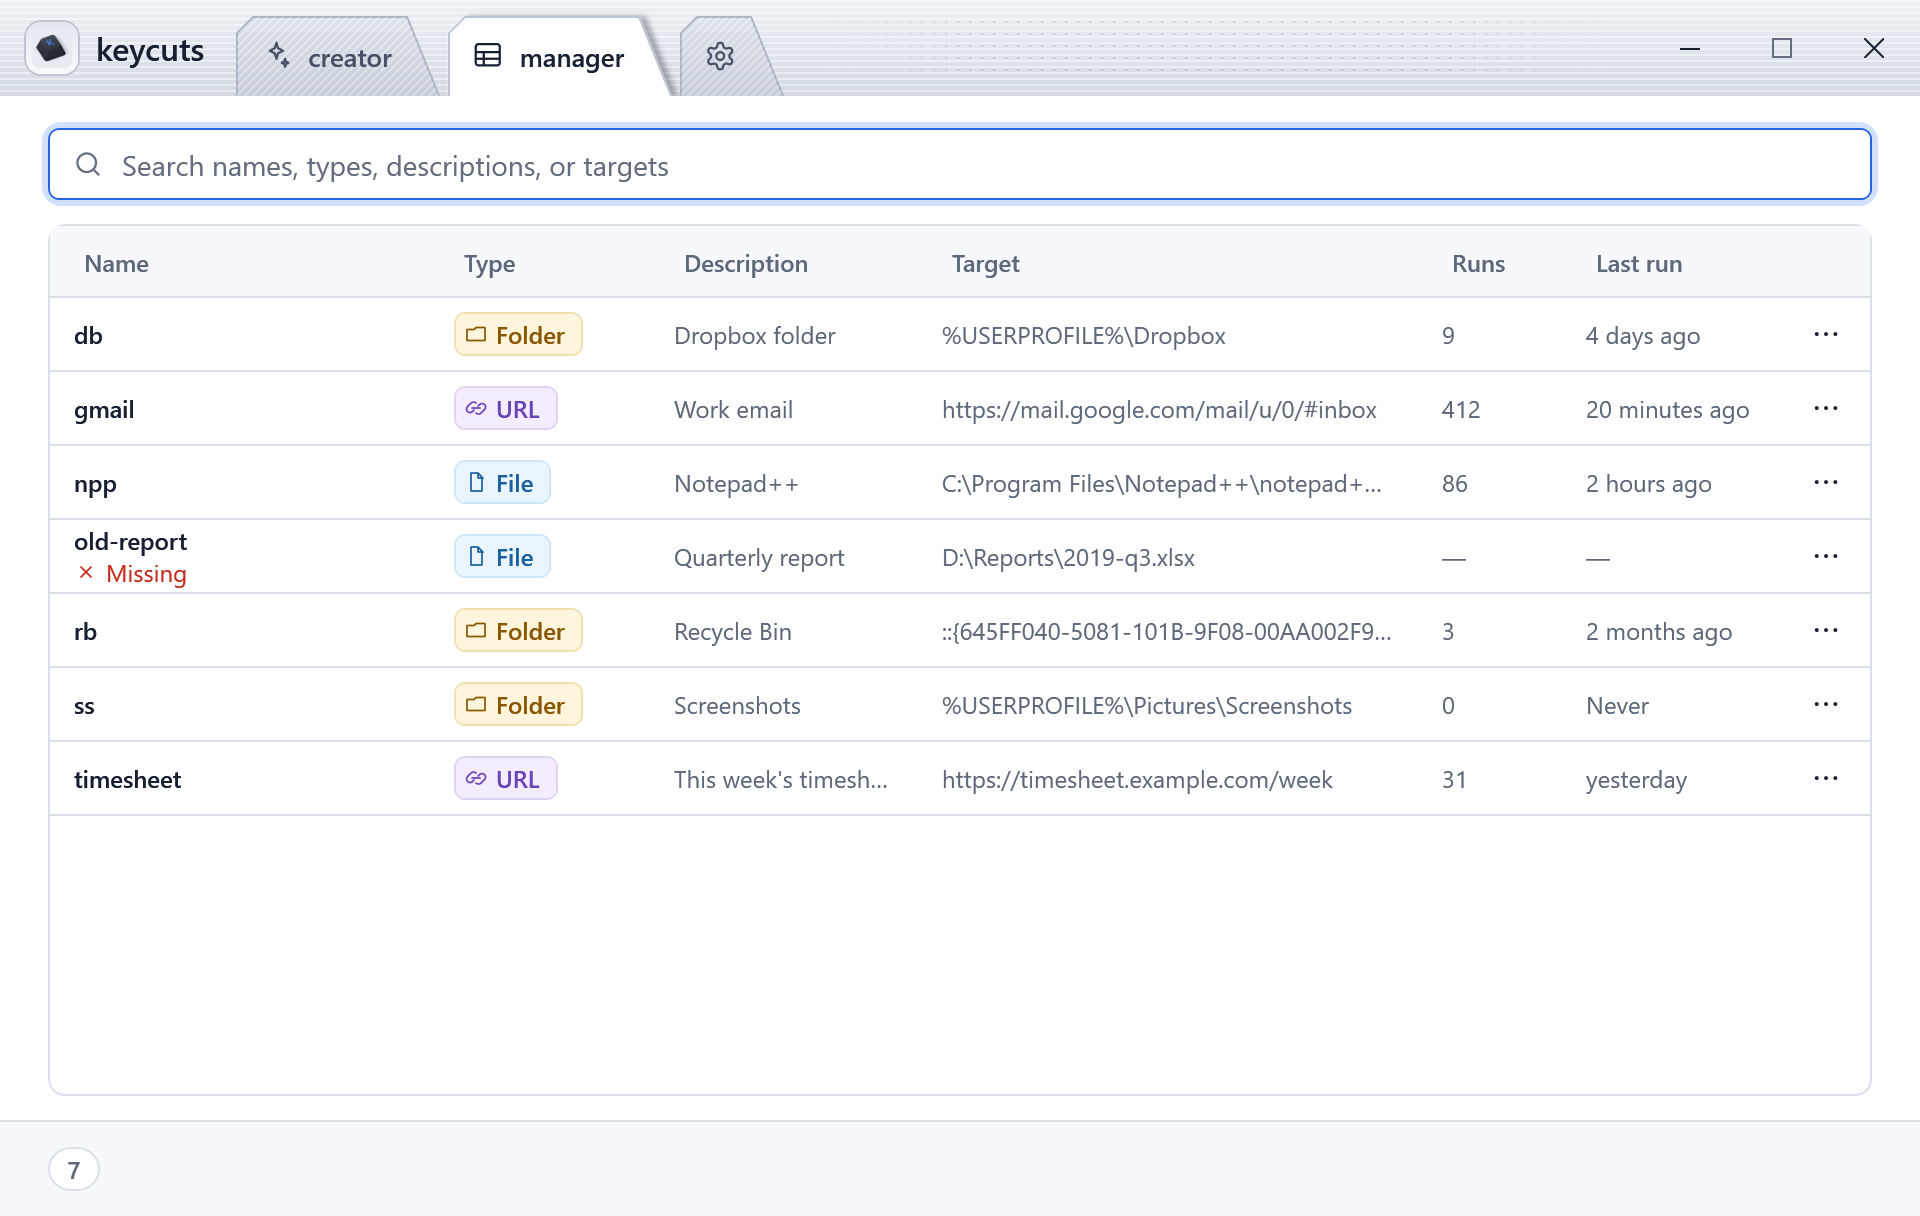
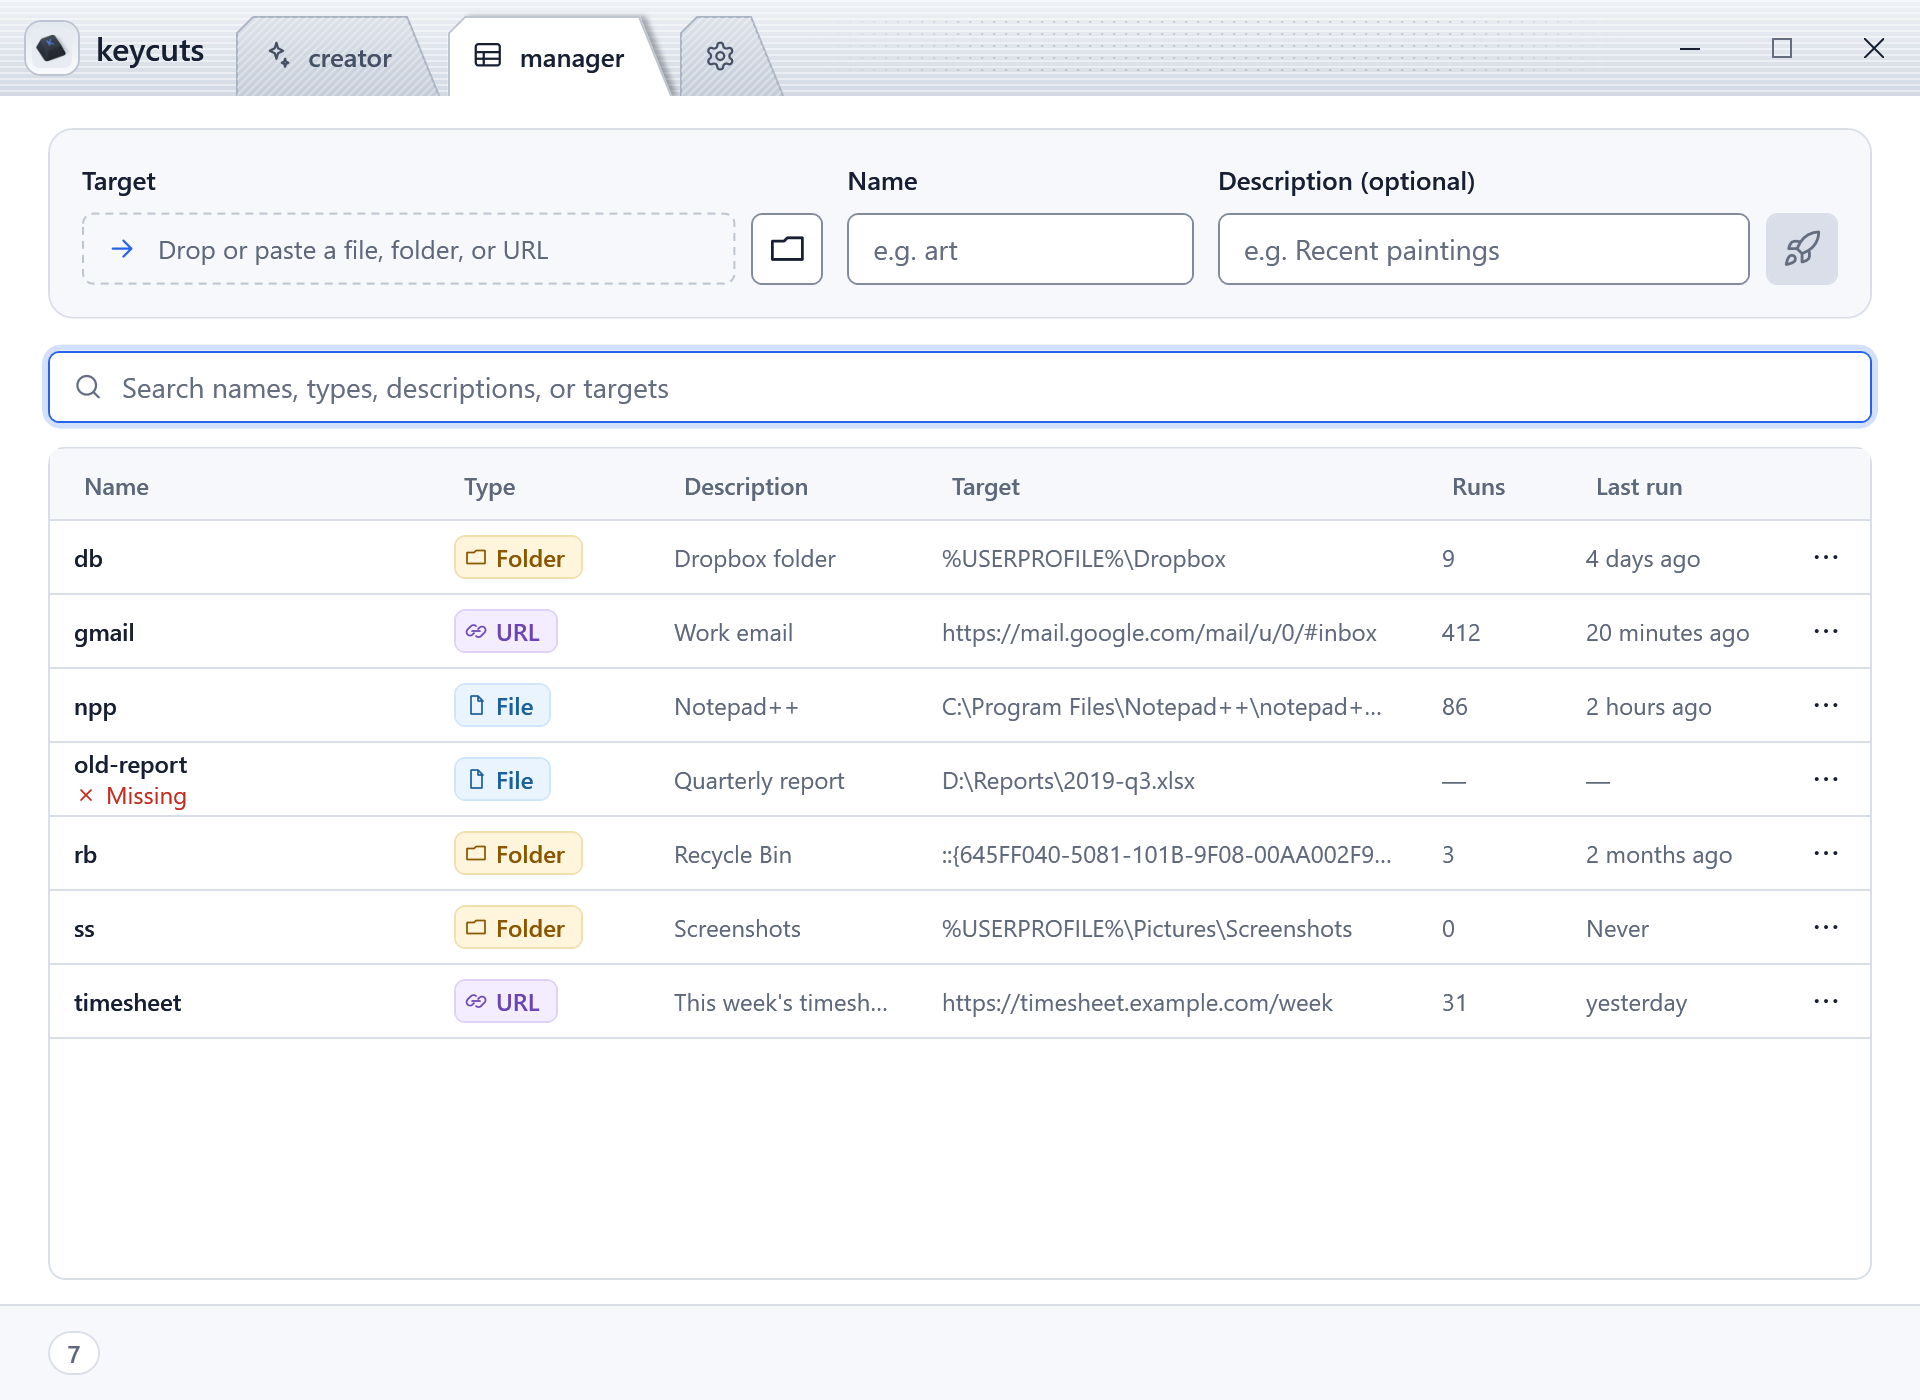
Regenerate the Manager and Settings screenshots at the large size
Both are 960 x 700 now, as the window opens them: the Manager with its create row, Settings in two
columns. The README mentions the row and shows Settings as wide as the Manager. The Creator's images
render pixel for pixel as before, so they aren't committed.

diff --git a/keycuts.Tests/ScreenshotTests.cs b/keycuts.Tests/ScreenshotTests.cs
@@ -112,24 +112,25 @@ namespace keycuts.Tests
             creator.ShortcutName = "gmail";
             Render(HideCarets(HostWithTabs(new CreatorView(), creator, rail => rail.CreatorItem, null)), folder, "creator-" + suffix);
 
-            // The Manager's table keeps the height it had before the tab bar (#218): 560 under the bar
-            var manager = new ManagerViewModel(noop, noop);
+            // The Manager and Settings at the large size the window opens them at. The Manager's create row is empty, ready for a keycut.
+            var manager = new ManagerViewModel(noop, noop)
+            {
+                CreateRow = new CreatorViewModel(noop, noop, checkName: TestNameChecks.NoWarnings) { DescriptionAlwaysShown = true, ClearsAfterCreate = true }
+            };
             manager.ShowKeycuts(SampleKeycuts());
-            Render(HideCarets(HostWithTabs(new ManagerView(), manager, rail => rail.ManagerItem, 960, 560 + RailHeight)), folder, "manager-" + suffix);
+            Render(HideCarets(HostWithTabs(new ManagerView(), manager, rail => rail.ManagerItem, WindowLayout.ManagerDefaultWidth, WindowLayout.ManagerDefaultHeight)), folder, "manager-" + suffix);
 
             // Settings (#218, a screen of the main window), with the update row the real app has (#171) but without the version
             // row (the version and check now), so the screenshot doesn't go stale at every release. Its footer is the creator's.
             var updates = UpdateFakes.Checker(new FakeReleaseSource(), new FakeUpdateState());
             var settings = new SettingsViewModel(new SampleStore(), directoryExists: _ => true, updates: updates) { ShowVersionRow = false, Footer = creator };
-            Render(HideCarets(HostWithTabs(new SettingsView(), settings, rail => rail.SettingsItem, null)), folder, "settings-" + suffix);
+            Render(HideCarets(HostWithTabs(new SettingsView(), settings, rail => rail.SettingsItem, WindowLayout.ManagerDefaultWidth, WindowLayout.ManagerDefaultHeight)), folder, "settings-" + suffix);
         }
-
-        private const double RailHeight = 48;
 
         /// <summary>
         /// A screen under the tab bar, as the main window shows it (#218), with its tab selected. Not the main window itself: that
-        /// would make the shell's own view models, and the creator's name check would read the real PATH. The fixed-size screens are
-        /// MainWidth wide. Maximize is off on every screen, as in the app.
+        /// would make the shell's own view models, and the creator's name check would read the real PATH. The Creator is MainWidth
+        /// wide, the others take the size they are given. Maximize is off on every screen, as in the app.
         /// </summary>
         private static Window HostWithTabs(FrameworkElement view, object viewModel, Func<RailView, TabItem> tab, double? width, double? height = null)
         {

diff --git a/README.md b/README.md
@@ -24,18 +24,18 @@ Silent: `msiexec /i keycuts-setup-x64.msi /qn OUTPUTFOLDER="C:\Shortcuts"`
   <img src="docs/images/creator-light.png" alt="The creator." width="580">
 </picture>
 
-**Manage:** search, sort, open, rename, edit, delete (with undo). Missing targets are flagged. Each keycut counts its runs, so sorting by **Runs** or **Last run** shows which ones you never use.
+**Manage:** add keycuts from the row at the top, search, sort, open, rename, edit, delete (with undo). Missing targets are flagged. Each keycut counts its runs, so sorting by **Runs** or **Last run** shows which ones you never use.
 
 <picture>
   <source media="(prefers-color-scheme: dark)" srcset="docs/images/manager-dark.png">
-  <img src="docs/images/manager-light.png" alt="The manager: a searchable table of keycuts." width="830">
+  <img src="docs/images/manager-light.png" alt="The manager: a row for a new keycut over a searchable table of keycuts." width="830">
 </picture>
 
 **Settings:** output folder, theme, icon, right-click menu, update checks, and environment-variable paths (`%USERPROFILE%\...`) for a portable keycuts folder.
 
 <picture>
   <source media="(prefers-color-scheme: dark)" srcset="docs/images/settings-dark.png">
-  <img src="docs/images/settings-light.png" alt="Settings." width="580">
+  <img src="docs/images/settings-light.png" alt="Settings, in two columns." width="830">
 </picture>
 
 The app checks GitHub for updates at most once a day. No telemetry: run counts are files in `%LOCALAPPDATA%\keycuts\usage` that never leave your PC.
